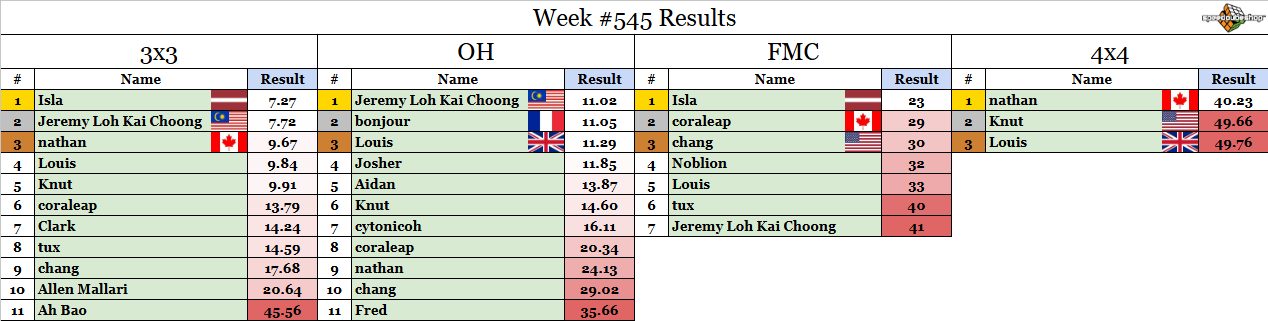
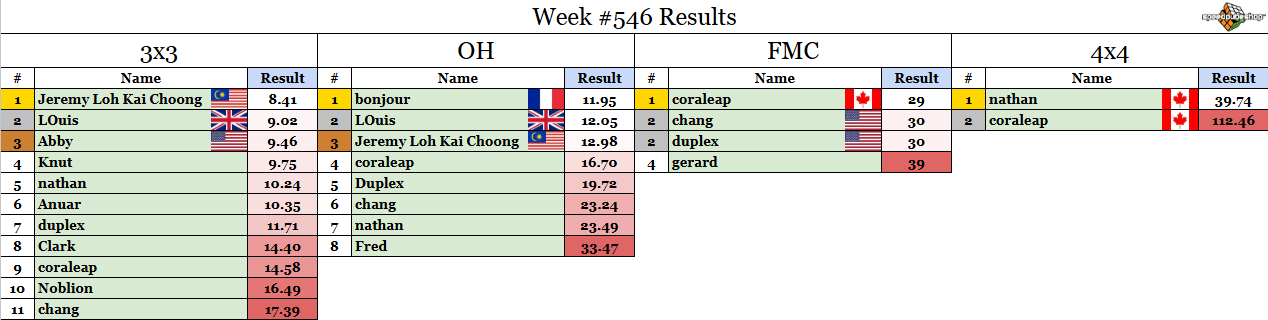
Weekly comp update, added a few links

Changed region(s): [[0.0, 0.0, 1.0, 1.0]]

diff --git a/src/pages/Rouxtorials.tsx b/src/pages/Rouxtorials.tsx
@@ -108,6 +108,12 @@ export default function Rouxtorials() {
                         Roux tutorial - rubiks.fandom.com
                         </Link>
                     </li>
+                    <li>
+                        Trevor Scheopner's Tutorial:{" "}
+                        <Link href="https://www.scheopner.com/cube/index.php" target="_blank" rel="noopener">
+                        Roux tutorial - scheopner.com
+                        </Link>
+                    </li>
                 </ul>
 
                 {/* <ReactMarkdown rehypePlugins={[rehypeRaw]}>{beginnerMarkdown}</ReactMarkdown> */}

diff --git a/src/pages/F2B.tsx b/src/pages/F2B.tsx
@@ -232,6 +232,12 @@ export default function F2BTabs() {
               </Link>
           </li>
           <li>
+              CP Roux:{" "}
+              <Link href="https://docs.google.com/spreadsheets/d/1JTHl4hlsvxWD9bOW8EJQQwMKfhwuipw1IXYVtKcvhe8/edit?usp=sharing" target="_blank" rel="noopener">
+              Edde's CP Roux Sheet
+              </Link>
+          </li>
+          <li>
               CPFB:{" "}
               <Link href="https://devagio.github.io/YruRU/index.html" target="_blank" rel="noopener">
               YruRU CPFB

diff --git a/src/components/Layout.tsx b/src/components/Layout.tsx
@@ -24,6 +24,9 @@ export default function Layout() {
         </Link>{' '}
         {new Date().getFullYear()}
       </Typography>
+      <Typography variant="body2" color="text.secondary" align="center">
+        Feedback or suggestions? DM me on Discord! (@_knut_)
+      </Typography>
       </Box>
     );
   }

diff --git a/src/weeklycomp/post.md b/src/weeklycomp/post.md
@@ -1,9 +1,9 @@
-## Weekly Competition #546 
+## Weekly Competition #547 
  
  This weekly competition is proudly sponsored by SpeedCubeShop.com 
  One competitor will be selected at random to receive a $5 SCS gift card! 
  
- Congrats to last week's winner by a random draw: **chang**. DM me for the prize. 
+ Congrats to last week's winner by a random draw: **LOuis**. DM me for the prize. 
  
  Check whether or not you participated this week yet at [https://bit.ly/RMSWeeklyCompSummary](https://bit.ly/RMSWeeklyCompSummary)  
  
@@ -17,31 +17,31 @@
  7. The comp runs until Sunday 5pm Eastern time (more or less). Enter your times using the forms links below. 
  
 ### 3x3: [Submission Form](https://forms.gle/H5xoCWvGKnZ92fQt8) 
- 1. L2 R2 U' B2 R2 D B2 D' U2 L2 U2 L2 F U R F2 R2 B2 U L2 F2 
- 2. D2 R' B2 D2 L' D2 F2 L' B2 L2 D2 R' B' L2 B' L' F D' B' D' R' 
- 3. L' D' L F2 L' U2 B2 L2 R' F2 L' F2 D' B F2 R2 D2 U' R' B' 
- 4. R' F2 L2 B2 D2 R' U2 R F2 R2 B2 F D B2 F' L D' B' U' F2 R 
- 5. B' D2 L D2 B2 U2 B2 L2 U2 L2 R U2 D' F R' F R2 B2 D' R D' 
+ 1. B2 R' U R' F' L U D R' F2 U' R2 F2 L2 B2 U B2 R2 B2 R2 D' 
+ 2. B2 U2 R2 B2 L2 B D2 B U2 F2 L2 U2 R F2 D L B U' F' L D2 
+ 3. U2 L2 D' R2 D B2 U B2 R2 U2 B2 D F D U' B' R D' L R D 
+ 4. D' B' U L D' F' B' D' R' B2 L2 U L2 D' F2 U' R2 D 
+ 5. L2 U2 D B U D L B R2 U2 D2 B2 D2 L' U2 B2 R U2 B2 L 
  
 ### OH: [Submission Form](https://forms.gle/UgRLW3K1d5KkMGfM9) 
- 1. B' R' B' U' F2 D' F2 D L2 B2 F2 U' L2 U' F' R2 B' U2 R' B' 
- 2. D' L2 F2 U2 B2 F2 U' R2 F2 U' L2 U' B' L' D L2 B2 U' F2 U2 
- 3. R2 B' R2 B2 F2 D2 R F2 U2 R F2 U2 L2 D' R B L F2 L F2 
- 4. L' D2 L2 D2 L' B2 L' D2 F2 R' F2 D2 F L F2 R' U' B' R2 U' L 
- 5. R L' U D' L F U L D2 L2 F' D2 R2 D2 F' B' L2 U2 F' L' 
+ 1. B2 D' F2 D2 R2 U B2 D' B2 U B2 R B U' F' U' R2 B F2 
+ 2. L' F L2 F R' F' U L2 U2 R2 F R2 F2 B R2 B' U2 F L' B2 
+ 3. R F2 D2 L D2 F2 D2 R D2 R D2 R' F' R U R' D' L' D L2 B 
+ 4. R2 D' R2 D2 U' R2 D' L2 U' F2 B' L D F' D2 U' B' D' L' R' U 
+ 5. D2 F2 U2 R2 B' R2 F D2 L2 B' D2 F' U' R2 F' D' L U' R2 D F' 
  
 ### FMC: [Submission Form](https://forms.gle/1P9VUgZmA1pibwvL9) 
- 1. R' U' F L2 U' R2 L2 F R D F2 U2 B2 R' D2 R2 D2 B2 U2 B2 R' D2 R' U' F 
+ 1. R' U' F U' B2 F2 L2 U B2 L2 F2 L2 F2 R' F' D2 B2 R' B' U' L2 U F2 R' U' F 
  
 ### 4x4: [Submission Form](https://forms.gle/bHNjncvEcPvFWBP2A) 
- 1. L D' F2 D2 L' D2 B2 R' L F2 R' L' U2 F U B D' B R2 U Rw2 F L' B U2 Rw2 B Uw2 L F D2 R' Uw' B2 Uw2 R Fw2 D2 Rw F B2 R Fw R2 D 
- 2. L B' D L' B2 U' R D' B R2 L' B2 U2 L B2 D2 L' D2 R D2 B2 Fw2 D R U2 L Rw2 D' Fw2 R U' R' U' Fw U2 F2 R' Uw2 R Rw D Uw Fw' Uw2 R2 Uw 
- 3. R U' D2 F2 B2 R' F2 R2 D2 F2 D2 L U B2 U2 B U' F B2 D Uw2 Rw2 B' Uw2 B' L2 Fw2 R' F L2 B Rw2 B' Uw' F2 Rw2 Uw L' Rw B2 Fw Rw2 Uw' F' D2 
- 4. B D2 B' L2 D2 F2 L2 D2 F2 L2 F U' D2 B L' D2 L F' B' L F' Fw2 R' D' B2 U2 Uw2 R Fw2 L D' Fw2 L2 D B Fw R' B Rw D2 Fw' U Uw' L2 F D 
- 5. L2 D2 B R2 L2 F2 L2 F' D2 B2 D2 R' B2 D R U' D' F2 U2 L Fw2 D' Uw2 L2 Fw2 U R Fw2 R' U2 D Fw' R Uw2 Rw2 F L2 B Rw' D Fw' L2 U2 Uw' 
+ 1. U B L' B2 U' R2 U2 D' B2 U' B2 R2 U F L B2 R' D2 F' U Rw2 B2 D Fw2 Uw2 F' L2 B2 U Uw2 F Rw2 U' R' B' L2 Rw' B' Uw L' F Rw2 Fw' D2 R2 
+ 2. L2 F' U2 F L2 B D2 L2 U D2 R D' F2 L2 B2 L F' D' B' Uw2 F' U2 B Uw2 L Rw2 F R B2 D2 Fw2 R' Uw' B' Uw2 F2 R2 D' Fw L U Uw' Fw' Uw' Rw2 
+ 3. B' R2 D' F B2 R2 B' U L' F2 U' L2 B2 D L2 D B2 U' R2 D F2 Fw2 L' Rw2 B' Rw2 B Rw2 B2 D2 Uw2 R' U2 Uw' Rw2 B U D2 Uw' R Rw D B Uw' R' Rw' 
+ 4. D2 B' L' D R U B2 R' U' R2 F U2 B D2 B U2 R2 F R2 F2 L2 Uw2 Fw2 U' F' Fw2 D B2 Fw2 Uw2 B D2 R2 U2 Rw B R' Uw2 Rw' D' F Uw Rw' Uw' R Uw2 
+ 5. R B D' F R2 U2 D2 R' U F2 R2 U B2 D R2 U2 B2 U' F2 L Fw2 D' B Uw2 R2 Fw2 R2 Fw2 D F' Fw2 Rw' Fw2 U R D Rw' Uw' Fw2 U Rw Fw' D' Fw 
  
 ### Winning FMC solutions from last week: 
- 1. Isla, 23 moves: [SOLUTION](https://bit.ly/41Z9Is9) 
- 2. coraleap, 29 moves: [SOLUTION](https://bit.ly/45NiOJD) 
- 3. chang, 30 moves: [SOLUTION](https://bit.ly/4lKJ2mb) 
+ 1. coraleap, 29 moves: [SOLUTION](https://tinyurl.com/2rscnm85) 
+ 2. chang, 30 moves: [SOLUTION](https://tinyurl.com/4h4ts2na) 
+ 3. duplex, 30 moves: [SOLUTION](https://tinyurl.com/3pwdcv2d) 
  
